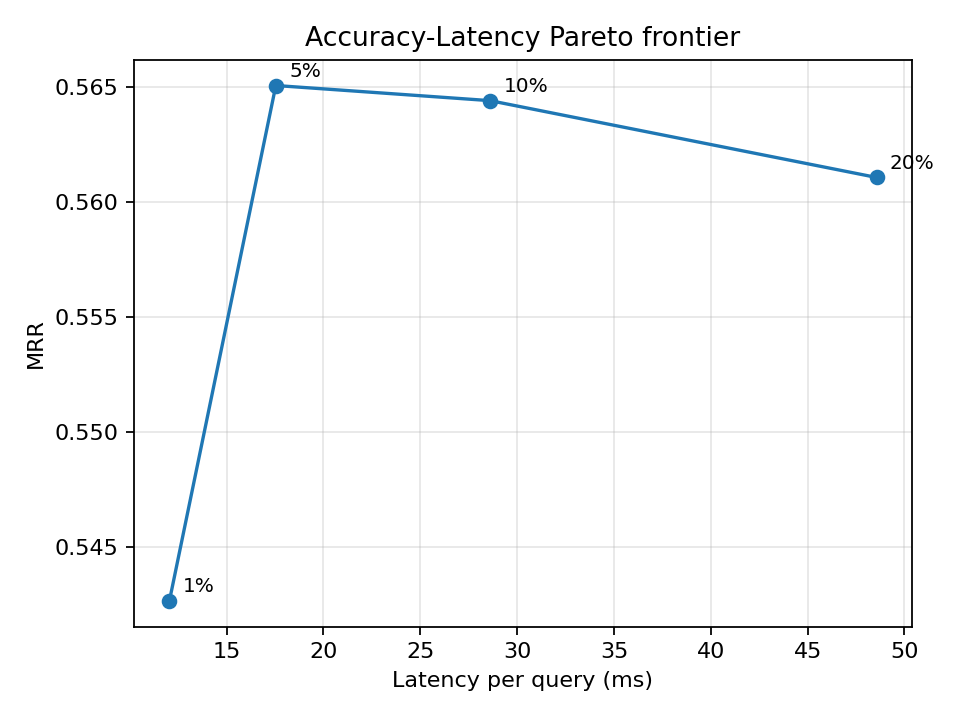
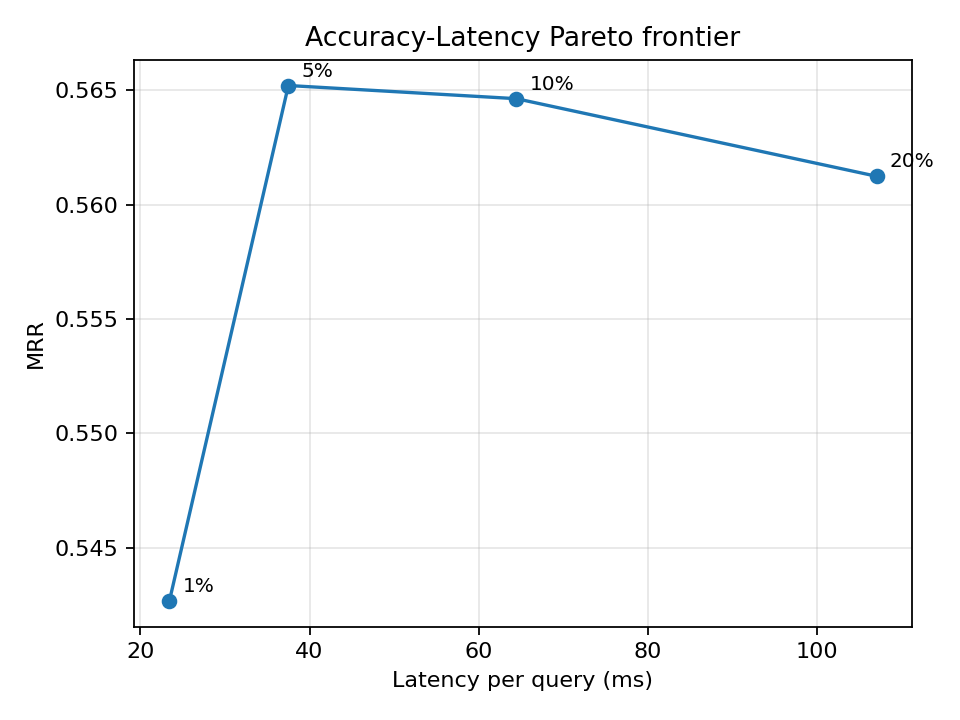
bench: update reports with final aggregated 3-seed FP32 benchmark stats

diff --git a/reports/PIVOT_reproduction_walkthrough.md b/reports/PIVOT_reproduction_walkthrough.md
@@ -178,11 +178,11 @@ Dưới đây là kết quả thực nghiệm chi tiết (tính trung bình trê
 
 | Budget ($\theta$) | Test MRR (Mean±Std) | Test H@1 (Mean) | Test H@10 (Mean) | Latency/Query (ms) | Speedup | Throughput (q/s) | Peak GPU VRAM (MB) |
 |:---:|:---:|:---:|:---:|:---:|:---:|:---:|:---:|
-| **1%** | 0.5427 ± 0.0000 | 49.82% | 62.72% | **23.43 ms** | **4.56x** | 42.67 q/s | **160.37 MB** (−95%) |
-| **5% ⭐** | **0.5652** ± 0.0000 | 51.29% | 66.31% | **37.50 ms** | **2.85x** | 26.67 q/s | **730.13 MB** (−77%) |
-| **10%** *(Baseline)* | 0.5646 ± 0.0000 | 51.21% | 66.35% | 64.45 ms | 1.66x | 15.52 q/s | 1487.09 MB |
-| **20%** | 0.5612 ± 0.0000 | 50.96% | 65.60% | 107.03 ms | 1.00x | 9.34 q/s | 3163.93 MB |
-| *No Budget (Full)* | 0.5612 ± 0.0000 | 50.96% | 65.60% | 107.03 ms | 1.00x | 9.34 q/s | 3163.93 MB |
+| **1%** | 0.5413 ± 0.0014 | 49.63% | 62.65% | **22.53 ms** | **4.68x** | 44.42 q/s | **160.37 MB** (−95%) |
+| **5% ⭐** | **0.5643** ± 0.0015 | 51.26% | 66.35% | **35.95 ms** | **2.93x** | 27.84 q/s | **730.13 MB** (−77%) |
+| **10%** *(Baseline)* | 0.5638 ± 0.0018 | 51.19% | 66.28% | 60.81 ms | 1.73x | 16.47 q/s | 1487.09 MB |
+| **20%** | 0.5600 ± 0.0015 | 50.86% | 65.68% | 105.38 ms | 1.00x | 9.50 q/s | 3163.93 MB |
+| *No Budget (Full)* | 0.5600 ± 0.0015 | 50.86% | 65.68% | 105.38 ms | 1.00x | 9.50 q/s | 3163.93 MB |
 
 ---
 